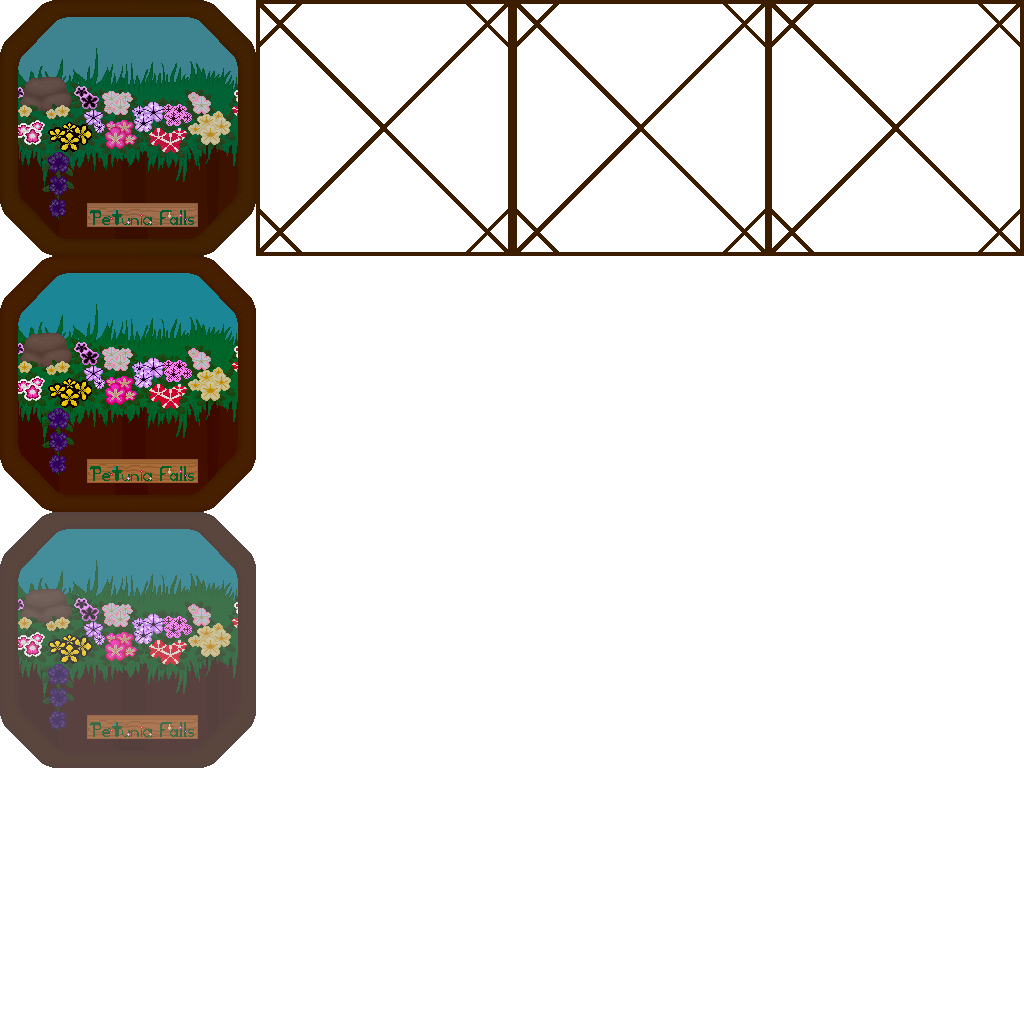
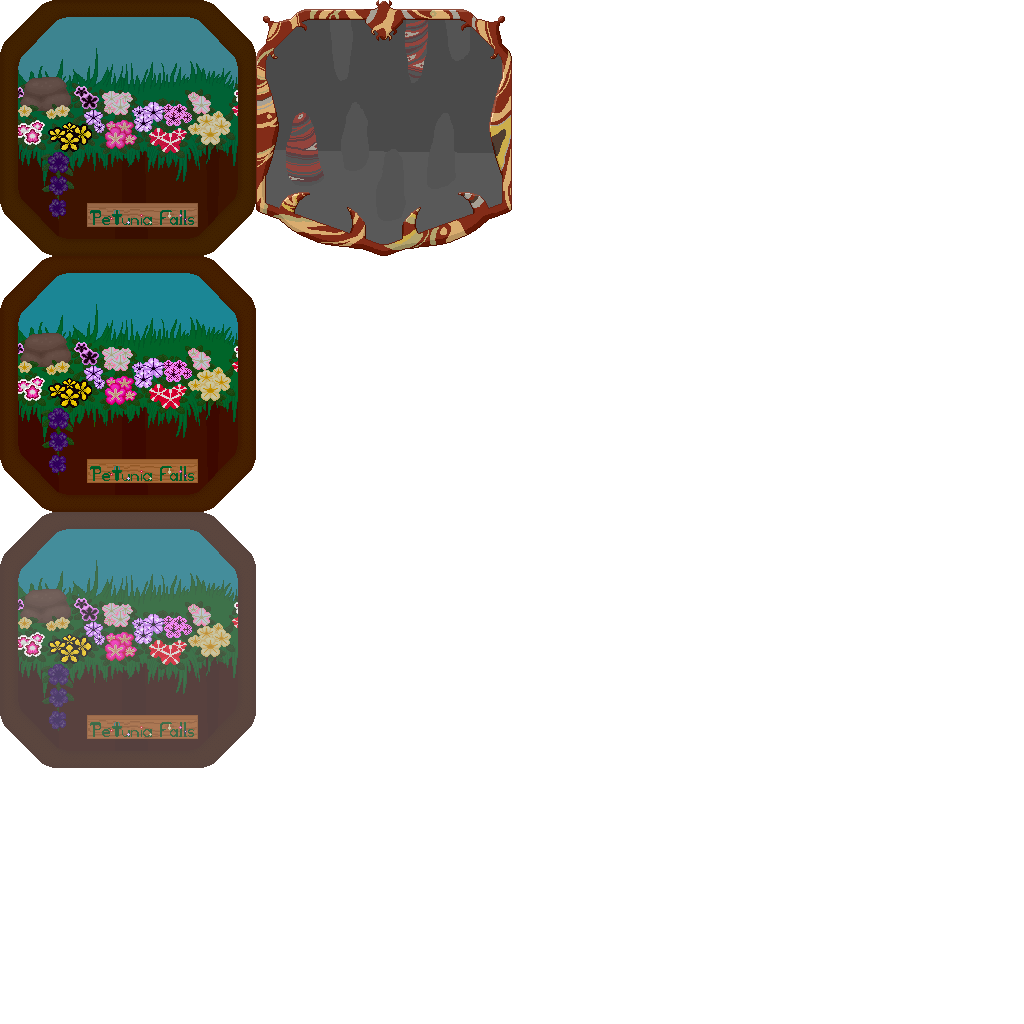
added jaspit badge

diff --git a/core/src/main/java/io/github/longfall/LevelSelectScreen.java b/core/src/main/java/io/github/longfall/LevelSelectScreen.java
@@ -12,6 +12,7 @@ import com.badlogic.gdx.scenes.scene2d.InputEvent;
 import com.badlogic.gdx.scenes.scene2d.Stage;
 import com.badlogic.gdx.scenes.scene2d.Touchable;
 import com.badlogic.gdx.scenes.scene2d.ui.Button;
+import com.badlogic.gdx.scenes.scene2d.ui.Button.ButtonStyle;
 import com.badlogic.gdx.scenes.scene2d.ui.Skin;
 import com.badlogic.gdx.scenes.scene2d.ui.TextButton;
 import com.badlogic.gdx.scenes.scene2d.utils.ClickListener;
@@ -47,8 +48,11 @@ public class LevelSelectScreen implements Screen {
     YogaNode backButtonNode;
     TextButton backButton;
 
-    YogaNode level1ButtonNode;
+    YogaNode petuniaFallsButtonNode;
     Button petuniaFallsButton;
+
+    YogaNode jaspitFallsButtonNode;
+    Button jaspitFallsButton;
 
 
     public LevelSelectScreen(Main game) {
@@ -112,15 +116,14 @@ public class LevelSelectScreen implements Screen {
         backButton.setTouchable(Touchable.enabled);
 
 
-        Button.ButtonStyle petuniaFallsButtonStyle = new Button.ButtonStyle();
+        ButtonStyle petuniaFallsButtonStyle = new Button.ButtonStyle();
         petuniaFallsButtonStyle.up = CurrentSkin.newDrawable("level-petunia-falls");
         petuniaFallsButtonStyle.down = CurrentSkin.newDrawable("level-petunia-falls-down");
         petuniaFallsButtonStyle.over = CurrentSkin.newDrawable("level-petunia-falls-over");
 
-
         petuniaFallsButton = new Button(petuniaFallsButtonStyle);
 
-        level1ButtonNode = levelSelectFlexBox.add(petuniaFallsButton)
+        petuniaFallsButtonNode = levelSelectFlexBox.add(petuniaFallsButton)
             .setFlexDirection(YogaFlexDirection.COLUMN)
             .setBorder(YogaEdge.ALL, 25)
             .setMargin(YogaEdge.LEFT, 250)
@@ -128,12 +131,48 @@ public class LevelSelectScreen implements Screen {
             .setWidth(256)
             .setHeight(256);
 
+        petuniaFallsButton.addListener(petuniaFallsButtonListener);
+        petuniaFallsButton.setTouchable(Touchable.enabled);
+
+
+        ButtonStyle jaspitFallsButtonStyle = new Button.ButtonStyle();
+        jaspitFallsButtonStyle.up = CurrentSkin.newDrawable("level-jaspit");
+        jaspitFallsButtonStyle.down = CurrentSkin.newDrawable("level-jaspit");
+        jaspitFallsButtonStyle.over = CurrentSkin.newDrawable("level-jaspit");
+
+        jaspitFallsButton = new Button(jaspitFallsButtonStyle);
+
+        jaspitFallsButtonNode = levelSelectFlexBox.add(jaspitFallsButton)
+            .setFlexDirection(YogaFlexDirection.COLUMN)
+            .setBorder(YogaEdge.ALL, 25)
+            .setMargin(YogaEdge.LEFT, 25)
+            .setMargin(YogaEdge.TOP, 75)
+            .setWidth(256)
+            .setHeight(256);
+
+        jaspitFallsButton.addListener(jaspitFallsButtonListener);
+        jaspitFallsButton.setTouchable(Touchable.enabled);
+
     }
 //Jaspit
     ClickListener BackButtonListener = new ClickListener() {
         @Override
         public void clicked(InputEvent event, float x, float y) {
             Gdx.app.postRunnable(() -> game.setScreen(new FirstScreen(game)));
+        }
+    };
+
+    ClickListener petuniaFallsButtonListener = new ClickListener() {
+        @Override
+        public void clicked(InputEvent event, float x, float y) {
+            System.out.println("Petunia Falls Button clicked!");
+        }
+    };
+
+    ClickListener jaspitFallsButtonListener = new ClickListener() {
+        @Override
+        public void clicked(InputEvent event, float x, float y) {
+            System.out.println("Jaspit Falls Button clicked!");
         }
     };
 

diff --git a/core/src/main/java/io/github/longfall/Main.java b/core/src/main/java/io/github/longfall/Main.java
@@ -36,4 +36,11 @@ public class Main extends Game {
         System.err.flush();
         });
     }
+    @Override
+    public void dispose() {
+        batch.dispose();
+        bgMusic.dispose();
+        miniAudio.dispose();
+        VisUI.dispose();
+    }
 }

diff --git a/lwjgl3/src/main/java/io/github/longfall/lwjgl3/Lwjgl3Launcher.java b/lwjgl3/src/main/java/io/github/longfall/lwjgl3/Lwjgl3Launcher.java
@@ -45,4 +45,6 @@ public class Lwjgl3Launcher {
 
         return configuration;
     }
+
+    
 }
